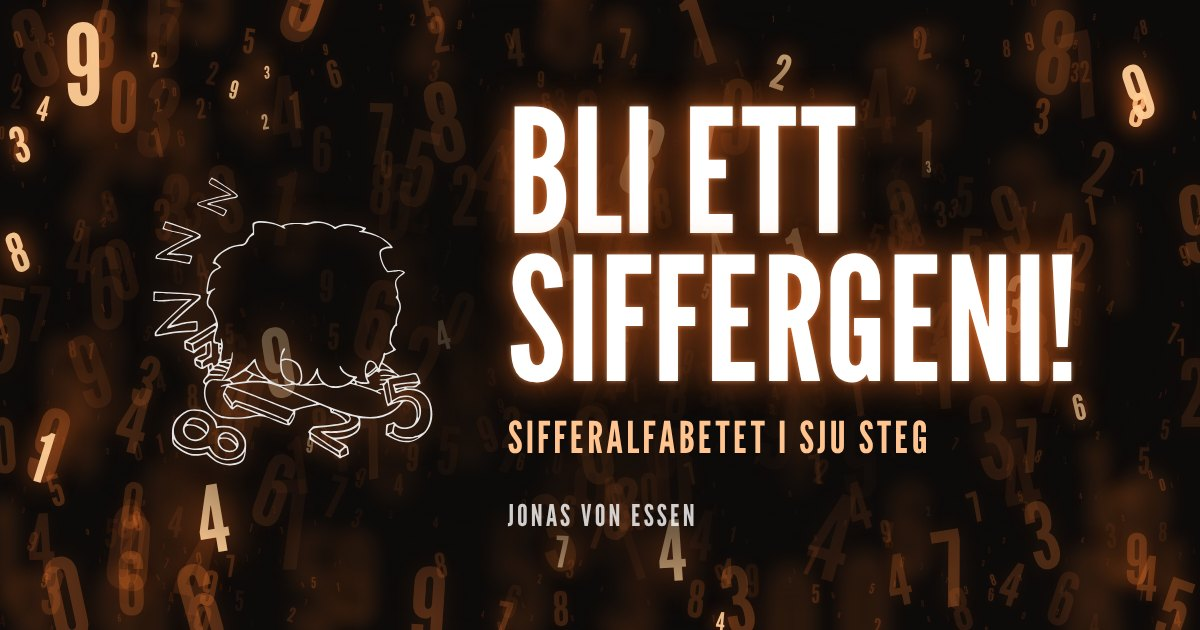
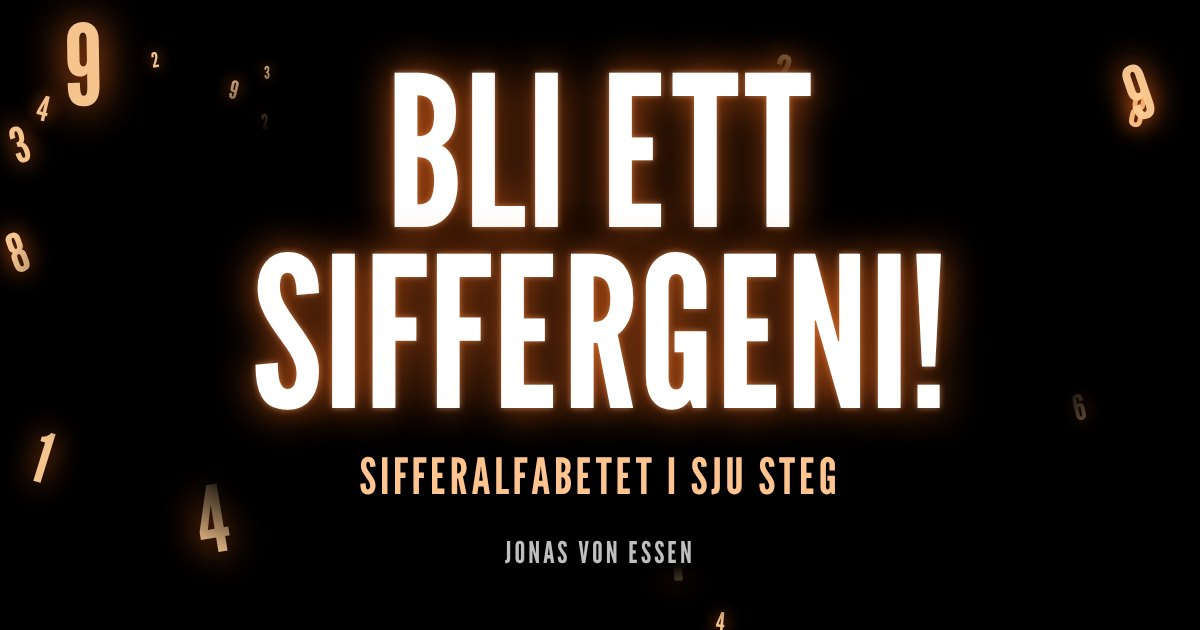
Siffror: svart botten med bara de mest lysande siffrorna, utan teckningar
Jonas ville ta bort teckningarna och göra bakgrunden svart med bara de
mest lysande siffrorna kvar.

- Bakgrunden är svart. Bara de starka siffrorna ritas, på samma platser
  som förut, fördelade på två lager som lyser upp och dämpas om
  vartannat. Rittiden är nu några millisekunder.
- Teckningarna är borta från omslaget, stegen och resultatet (pokalen),
  och SVG-filerna är borttagna. Kartan över minnespalatset är kvar,
  eftersom pi-promenaden och Ditt tal bygger på den.
- Ytan bakom rubriken hålls fri från siffror så att texten syns.
- Delningsbilden är gjord om i samma stil, utan teckning (dela.jpg?v=5).

Claude-Session: https://claude.ai/code/session_01WrBdJdpxhBLU6zPKW1yLaF

diff --git a/siffror.html b/siffror.html
@@ -10,19 +10,18 @@
   <meta property="og:description" content="Lär dig sifferalfabetet och kom ihåg vilka siffror som helst, med Jonas von Essen.">
   <meta property="og:url" content="https://www.jonasgeografi.se/siffror.html">
   <meta property="og:type" content="website">
-  <meta property="og:image" content="https://www.jonasgeografi.se/assets/siffror/dela.jpg?v=4">
+  <meta property="og:image" content="https://www.jonasgeografi.se/assets/siffror/dela.jpg?v=5">
   <meta property="og:image:width" content="1200">
   <meta property="og:image:height" content="630">
   <meta name="twitter:card" content="summary_large_image">
-  <meta name="theme-color" content="#0d0b0a">
+  <meta name="theme-color" content="#000000">
   <link rel="apple-touch-icon" href="assets/design/ikon-180.png">
   <link rel="preload" href="assets/siffror/league-gothic.woff2" as="font" type="font/woff2" crossorigin>
   <style>
     /* Formen kommer från boken Så får du ett superminne: smala versala
-       rubriker och Jonas egna teckningar på en vit sida, som ligger som ett
-       papper på en mörk botten full av lysande siffror.
-       Varje steg har samma upplägg: teckning, rubrik, kort text, övning.
-       League Gothic står in för bokens Kapra. */
+       rubriker på en vit sida, som ligger som ett papper på en svart botten
+       med lysande siffror. Varje steg har samma upplägg: rubrik, kort text,
+       övning. League Gothic står in för bokens Kapra. */
     @font-face {
       font-family: 'League Gothic';
       src: url('assets/siffror/league-gothic.woff2') format('woff2');
@@ -33,17 +32,19 @@
       --brod: 'Helvetica Neue', Helvetica, Arial, sans-serif;
       --svart: #1a1a1a; --text2: #3d3a36; --text3: #716c65; --ljus: #a39d94;
       --prick: #8f8a83; --yta: #f5f2ed;
-      --o1: #f59f4b; --o2: #ee742c; --o3: #e74211; --siffra: #c2410c; --natt: #0d0b0a;
+      --o1: #f59f4b; --o2: #ee742c; --o3: #e74211; --siffra: #c2410c; --natt: #000;
       --ratt: #11865a; --fel: #cc2936;
     }
     * { margin: 0; padding: 0; box-sizing: border-box; }
     html { -webkit-text-size-adjust: 100%; }
     body { font-family: var(--brod); color: var(--svart); line-height: 1.55; min-height: 100vh; background: var(--natt); }
-    /* bakgrunden: siffrorna ritas av siffror-bakgrund.js, de starkaste i ett
-       eget lager som lyser upp och dämpas långsamt */
-    #bakgrund, #glod { position: fixed; top: 0; left: 0; width: 100%; height: 100vh; pointer-events: none; }
-    #bakgrund { z-index: -2; }
-    #glod { z-index: -1; animation: glod 4.5s ease-in-out infinite alternate; }
+    /* bakgrunden: siffror-bakgrund.js ritar de lysande siffrorna i två lager,
+       som lyser upp och dämpas om vartannat */
+    #bakgrund, #glod {
+      position: fixed; top: 0; left: 0; width: 100%; height: 100vh; z-index: -1; pointer-events: none;
+      animation: glod 4.5s ease-in-out infinite alternate;
+    }
+    #glod { animation-delay: -4.5s; }
     @keyframes glod { from { opacity: .35; } to { opacity: 1; } }
     button { font: inherit; color: inherit; cursor: pointer; }
     a { color: inherit; }
@@ -54,10 +55,9 @@
 
     /* ── omslaget ── */
     .hero {
-      display: flex; align-items: center; justify-content: center; gap: 14px; padding: 28px 16px 26px; color: #fff;
-      background: radial-gradient(closest-side, rgba(13, 11, 10, .9), rgba(13, 11, 10, 0));
+      padding: 30px 16px 28px; color: #fff; text-align: center;
+      background: radial-gradient(closest-side, #000 65%, rgba(0, 0, 0, 0));   /* inga siffror bakom rubriken */
     }
-    .hero-bild { width: 92px; flex: none; filter: invert(1) drop-shadow(0 0 6px rgba(255, 120, 40, .7)); }
     h1 {
       font-family: var(--rubrik); font-weight: 400; text-transform: uppercase;
       font-size: clamp(3rem, 15vw, 5.4rem); line-height: .88; letter-spacing: .005em;
@@ -66,7 +66,7 @@
     .hero-under { font-family: var(--rubrik); text-transform: uppercase; font-size: 1.12rem; letter-spacing: .07em; line-height: 1.2; margin-top: 8px; color: #ffc48f; }
 
     /* ── boksidan ── */
-    .sida { background: #fff; max-width: 720px; margin: 0 10px 28px; border-radius: 3px; box-shadow: 0 12px 40px rgba(0, 0, 0, .8), 0 0 60px rgba(255, 110, 30, .12); }
+    .sida { background: #fff; max-width: 720px; margin: 0 10px 28px; border-radius: 3px; box-shadow: 0 0 60px rgba(255, 110, 30, .12); }
     .steg-nav { display: flex; justify-content: center; gap: 7px; padding: 18px 16px 0; }
     .steg-nav a {
       width: 34px; height: 34px; border-radius: 50%; border: 1.5px solid var(--svart);
@@ -79,11 +79,9 @@
     main { max-width: 620px; margin: 0 auto; padding: 0 20px 36px; }
     .vy { animation: in .25s ease-out; }
     @keyframes in { from { opacity: 0; transform: translateY(6px); } }
-    .vy-bild { display: block; width: auto; height: 64px; margin: 28px auto 8px; }
-    .vy-bild.lag { height: 44px; margin-top: 40px; }
     h2 {
       font-family: var(--rubrik); font-weight: 400; text-transform: uppercase; text-align: center;
-      font-size: clamp(2.5rem, 11vw, 3.2rem); line-height: .95; letter-spacing: .005em; margin-bottom: 14px;
+      font-size: clamp(2.5rem, 11vw, 3.2rem); line-height: .95; letter-spacing: .005em; margin: 30px 0 14px;
     }
     h3 {
       font-family: var(--rubrik); font-weight: 400; text-transform: uppercase; letter-spacing: .03em;
@@ -152,7 +150,6 @@
     .aterkoppling.fel { color: var(--fel); }
     .forklaring { color: var(--text2); font-size: .95rem; }
     .forklaring p { margin-top: 6px; }
-    .resultat img { width: 96px; display: block; margin: 4px auto 8px; }
     .resultat .stor { font-size: clamp(2.4rem, 11vw, 3.4rem); text-transform: uppercase; }
 
     .knappsats { display: grid; grid-template-columns: repeat(3, 1fr); gap: 9px; max-width: 330px; margin: 12px auto 4px; }
@@ -251,22 +248,18 @@
     footer p + p { margin-top: 4px; }
 
     @media (max-width: 360px) {
-      .hero-bild { width: 74px; }
       .hero-under { font-size: .98rem; letter-spacing: .05em; }
       .val button { font-size: .98rem; }
     }
     @media (min-width: 600px) {
-      .hero-bild { width: 140px; }
       .steg-nav a { width: 38px; height: 38px; font-size: 1.35rem; }
-      .vy-bild { height: 76px; }
-      .vy-bild.lag { height: 52px; }
       .ovning { padding: 24px 26px; }
       .alfabet { columns: 2; column-gap: 28px; border-top: none; }
       .alfabet li:first-child, .alfabet li:nth-child(6) { border-top: 1.5px dotted var(--prick); }
       .promenad { grid-template-columns: 200px 1fr; gap: 22px; }
     }
     @media (min-width: 760px) {
-      .hero { padding: 40px 16px 34px; }
+      .hero { padding: 44px 16px 38px; }
       .sida { margin: 0 auto 56px; }
     }
     @media (prefers-reduced-motion: reduce) {
@@ -285,11 +278,8 @@
 <canvas id="glod" aria-hidden="true"></canvas>
 
 <header class="hero">
-  <img class="hero-bild" src="assets/siffror/kapitel.svg" alt="" width="555" height="588">
-  <div>
-    <h1>Bli ett siffergeni!</h1>
-    <p class="hero-under">Sifferalfabetet i sju steg</p>
-  </div>
+  <h1>Bli ett siffergeni!</h1>
+  <p class="hero-under">Sifferalfabetet i sju steg</p>
 </header>
 
 <div class="sida">
@@ -308,7 +298,6 @@
 
   <!-- 1. ALFABETET -->
   <section class="vy" id="vy-alfabetet" aria-labelledby="h-alfabetet">
-    <img class="vy-bild" src="assets/siffror/abc.svg" alt="" width="316" height="224">
     <h2 id="h-alfabetet">Sifferalfabetet</h2>
     <p>Siffror är svåra att se framför sig, men ord är lätta. Med sifferalfabetet får varje siffra
       ett konsonantljud. Stoppa in vilka vokaler du vill, så blir talet ett ord.
@@ -327,7 +316,6 @@
 
   <!-- 2. ORD → SIFFROR -->
   <section class="vy" id="vy-ord" aria-labelledby="h-ord" hidden>
-    <img class="vy-bild lag" src="assets/siffror/binar.svg" alt="" width="877" height="173">
     <h2 id="h-ord">Ord till siffror</h2>
     <p>Översätt orden till siffror. Bara konsonantljuden räknas, så ord med många vokaler blir korta tal.</p>
     <div class="ovning" id="ord-ovning"></div>
@@ -340,7 +328,6 @@
 
   <!-- 3. SIFFROR → ORD -->
   <section class="vy" id="vy-tal" aria-labelledby="h-tal" hidden>
-    <img class="vy-bild" src="assets/siffror/lampa.svg" alt="" width="432" height="482">
     <h2 id="h-tal">Siffror till ord</h2>
     <p>Nu åt andra hållet: hitta på ett ord för talet. Det finns inget enda rätt svar.</p>
     <div class="ovning" id="tal-ovning"></div>
@@ -349,7 +336,6 @@
 
   <!-- 4. LATHUNDEN -->
   <section class="vy" id="vy-lathund" aria-labelledby="h-lathund" hidden>
-    <img class="vy-bild" src="assets/siffror/hjarna.svg" alt="" width="383" height="286">
     <h2 id="h-lathund">Lathunden 00–99</h2>
     <p>Den som tävlar har ett färdigt ord för varje tal från 00 till 99, så att bilderna kommer av sig själva.
       Här är mina. Lär in dem tio i taget.</p>
@@ -362,7 +348,6 @@
 
   <!-- 5. ÅRTAL -->
   <section class="vy" id="vy-artal" aria-labelledby="h-artal" hidden>
-    <img class="vy-bild" src="assets/siffror/raket.svg" alt="" width="373" height="174">
     <h2 id="h-artal">Årtal</h2>
     <p>Vet du vilket århundrade något hände räcker det med de två sista siffrorna.
       Läs bilderna, sedan förhör jag dig.</p>
@@ -373,7 +358,6 @@
 
   <!-- 6. PI -->
   <section class="vy" id="vy-pi" aria-labelledby="h-pi" hidden>
-    <img class="vy-bild" src="assets/siffror/pi.svg" alt="" width="768" height="328">
     <h2 id="h-pi">Pi-utmaningen</h2>
     <p>Med lathunden och ett minnespalats lär du dig de 30 första decimalerna av pi på några minuter.
       Varje par blir ett ord, och två ord i taget får en plats i mitt hus från bokens andra kapitel.
@@ -399,7 +383,6 @@
 
   <!-- 7. DITT TAL -->
   <section class="vy ph-no-capture" id="vy-dittal" aria-labelledby="h-dittal" hidden>
-    <img class="vy-bild" src="assets/siffror/utrop.svg" alt="" width="189" height="166">
     <h2 id="h-dittal">Ditt eget tal</h2>
     <p>Telefonnummer, portkoder, födelsedagar: alla tal går att göra om till bilder.
       Skriv ett tal så lägger jag orden i mitt minnespalats. Talet stannar i din webbläsare.</p>
@@ -423,8 +406,8 @@
 
 <script src="siffror-ljud.js?v=1"></script>
 <script src="siffror-data.js?v=3"></script>
-<script src="siffror.js?v=3"></script>
-<script src="siffror-bakgrund.js?v=1"></script>
+<script src="siffror.js?v=4"></script>
+<script src="siffror-bakgrund.js?v=2"></script>
 <script src="kakor.js?v=76"></script>
 </body>
 </html>

diff --git a/siffror.js b/siffror.js
@@ -87,9 +87,8 @@
     return html;
   }
 
-  // resultatet efter en övning: bokens pokal när allt satt
-  const resultatHTML = (rubrik, text, perfekt) => `<div class="resultat">
-    ${perfekt ? '<img src="assets/siffror/pokal.svg" alt="" width="427" height="495">' : ''}
+  // resultatet efter en övning
+  const resultatHTML = (rubrik, text) => `<div class="resultat">
     <div class="stor">${rubrik}</div><p>${text}</p></div>
     <div class="knapprad"><button class="knapp sekundar" type="button" data-igen>Kör igen</button></div>`;
 
@@ -217,7 +216,7 @@
       statistik('alfabet_klart', { sek: tid, missar });
       el.innerHTML = resultatHTML(sekText(tid),
         (missar ? `${missText(missar)} på vägen.` : 'Inte en enda miss!') +
-        (bast ? (rekord ? ' Nytt rekord!' : ` Ditt rekord är ${sekText(bast)}.`) : ''), !missar);
+        (bast ? (rekord ? ' Nytt rekord!' : ` Ditt rekord är ${sekText(bast)}.`) : ''));
       $('[data-igen]', el).addEventListener('click', starta);
       iSikte(el);
     }
@@ -288,7 +287,7 @@
       statistik('ord_klart', { ratt: ratta, antal: ord.length });
       const alla = ratta === ord.length;
       el.innerHTML = resultatHTML(`${ratta} av ${ord.length}`,
-        alla ? 'Alla rätt! Du läser siffror som en minnesatlet.' : 'Bra jobbat! Kör en gång till, så sitter det.', alla);
+        alla ? 'Alla rätt! Du läser siffror som en minnesatlet.' : 'Bra jobbat! Kör en gång till, så sitter det.');
       $('[data-igen]', el).addEventListener('click', () => { starta(); iSikte(el); });
     }
 
@@ -376,8 +375,7 @@
     function klart() {
       statistik('tal_klart', { ratt: ratta, antal: tal.length });
       el.innerHTML = resultatHTML(`${ratta} av ${tal.length}`,
-        'Ju fler ord du hittar på, desto snabbare går det. Proffsen har ett färdigt ord för varje tal, och det är nästa steg!',
-        ratta === tal.length);
+        'Ju fler ord du hittar på, desto snabbare går det. Proffsen har ett färdigt ord för varje tal, och det är nästa steg!');
       $('[data-igen]', el).addEventListener('click', () => { starta(); iSikte(el); });
     }
 
@@ -451,7 +449,7 @@
       lage = 'klar'; aktuell = null;
       statistik('lathund_klart', { tio, missar });
       el.innerHTML = resultatHTML(missar ? 'Klart!' : 'Felfritt!',
-        `${tio}0–${tio}9${missar ? `, med ${missText(missar)} på vägen` : ''}. Repetera i morgon så sitter de ännu bättre.`, !missar);
+        `${tio}0–${tio}9${missar ? `, med ${missText(missar)} på vägen` : ''}. Repetera i morgon så sitter de ännu bättre.`);
       if (tio < 9) {
         $('.knapprad', el).insertAdjacentHTML('beforeend', '<button class="knapp" type="button" data-nasta-tio>Nästa tiotal →</button>');
         $('[data-nasta-tio]', el).addEventListener('click', () => { tio++; lista(); iSikte(el); });
@@ -544,7 +542,7 @@
       statistik('artal_klart', { ratt: ratta, antal: fr.length });
       const alla = ratta === fr.length;
       el.innerHTML = resultatHTML(`${ratta} av ${fr.length}`,
-        alla ? 'Alla rätt! Nu kan du briljera på nästa middag.' : 'Läs igenom bilderna en gång till och kör igen!', alla);
+        alla ? 'Alla rätt! Nu kan du briljera på nästa middag.' : 'Läs igenom bilderna en gång till och kör igen!');
       $('[data-igen]', el).addEventListener('click', starta);
     }
 
@@ -660,7 +658,7 @@
       statistik('pi_klart', { sek, fel });
       forEl.innerHTML = resultatHTML(fel ? sekText(sek) : 'Felfritt!',
         `Du kan de 30 första decimalerna av pi${fel ? `, med ${fel} fel på vägen` : ` på ${sekText(sek)}`}.
-        ${battre && bast ? 'Nytt rekord! ' : ''}Bara 13&nbsp;178 decimaler kvar, så är du ikapp mig …`, !fel);
+        ${battre && bast ? 'Nytt rekord! ' : ''}Bara 13&nbsp;178 decimaler kvar, så är du ikapp mig …`);
       $('[data-igen]', forEl).addEventListener('click', forhorKor);
       iSikte(forEl);
     }

diff --git a/siffror-bakgrund.js b/siffror-bakgrund.js
@@ -1,11 +1,11 @@
-// ── Bakgrunden: tusentals lysande siffror på mörk botten ──
+// ── Bakgrunden: lysande siffror på svart botten ──
 // Ritas en gång på två canvas bakom sidan, och om när fönstret blir större.
-// De starkaste siffrorna ligger i ett eget lager (#glod) som lyser upp och
-// dämpas långsamt med CSS.
+// Siffrorna delas på de två lagren, som lyser upp och dämpas om vartannat
+// med CSS.
 (() => {
   'use strict';
-  const bas = document.getElementById('bakgrund'), glod = document.getElementById('glod');
-  if (!bas || !bas.getContext) return;
+  const lager = [document.getElementById('bakgrund'), document.getElementById('glod')];
+  if (!lager[0] || !lager[1] || !lager[0].getContext) return;
   const FONT = "'League Gothic', 'Arial Narrow', Impact, sans-serif";
   let ritadB = 0, ritadH = 0;
 
@@ -15,48 +15,34 @@
     ritadB = b; ritadH = h;
     // skarpt i mobilen, men högst fyra megapixel per lager
     const dpr = Math.min(devicePixelRatio || 1, 2, Math.sqrt(4e6 / (b * h)));
-    const [x, g] = [bas, glod].map(c => {
+    const k = lager.map(c => {
       c.width = Math.round(b * dpr); c.height = Math.round(h * dpr);
       c.style.width = b + 'px'; c.style.height = h + 'px';
-      const k = c.getContext('2d');
-      k.textAlign = 'center'; k.textBaseline = 'middle';
-      return k;
+      const x = c.getContext('2d');
+      x.textAlign = 'center'; x.textBaseline = 'middle';
+      x.shadowColor = 'rgba(255,110,30,.95)'; x.fillStyle = 'rgba(255,205,150,.95)';
+      return x;
     });
 
-    // samma mönster varje gång: en enkel slumpgenerator med fast frö
+    // samma mönster varje gång: en enkel slumpgenerator med fast frö. Av
+    // siffrorna på ett mellanavstånd får var tolfte lysa, resten ritas inte.
     let fro = 271828;
     const slump = () => (fro = (fro * 16807) % 2147483647) / 2147483647;
     const lista = [];
     for (let n = Math.min(2500, Math.round(b * h / 900)); n > 0; n--) {
-      lista.push({ z: slump(), x: slump() * b, y: slump() * h, rot: (slump() - .5) * .7, l: slump(), s: String(Math.floor(slump() * 10)) });
+      const d = { z: slump(), x: slump() * b, y: slump() * h, rot: (slump() - .5) * .7, l: slump(), s: String(Math.floor(slump() * 10)) };
+      if (d.l < .08 && d.z > .45 && d.z < .9) lista.push(d);
     }
-    // längst bort först: små och svaga siffror långt bort, stora och suddiga nära
+    // längst bort först: de små bakom de stora
     lista.sort((a, c) => a.z - c.z);
     for (const d of lista) {
       const st = 8 + Math.pow(d.z, 4) * 160;
-      const lyser = d.l < .08 && d.z > .45 && d.z < .9;
-      const k = lyser ? g : x;
-      k.save();
-      if (d.z > .92) {
-        // ur fokus: bara skuggan syns, själva siffran hamnar utanför bilden
-        k.setTransform(1, 0, 0, 1, 0, 0);
-        k.font = st * dpr + 'px ' + FONT;
-        k.shadowColor = 'rgba(255,120,40,.2)'; k.shadowBlur = st * .14 * dpr; k.shadowOffsetX = 1e5;
-        k.fillStyle = '#000'; k.fillText(d.s, d.x * dpr - 1e5, d.y * dpr);
-      } else {
-        k.setTransform(dpr, 0, 0, dpr, d.x * dpr, d.y * dpr);
-        k.rotate(d.rot);
-        k.font = st + 'px ' + FONT;
-        if (lyser) {
-          k.shadowColor = 'rgba(255,110,30,.95)'; k.shadowBlur = (8 + st * .3) * dpr;
-          k.fillStyle = 'rgba(255,205,150,.95)';
-        } else {
-          k.shadowColor = 'rgba(255,110,30,.5)'; k.shadowBlur = (2 + st * .2) * dpr;
-          k.fillStyle = 'rgba(255,130,55,' + (.04 + d.l * .26 * (.4 + d.z * .6)).toFixed(3) + ')';
-        }
-        k.fillText(d.s, 0, 0);
-      }
-      k.restore();
+      const x = k[d.l < .04 ? 0 : 1];
+      x.setTransform(dpr, 0, 0, dpr, d.x * dpr, d.y * dpr);
+      x.rotate(d.rot);
+      x.font = st + 'px ' + FONT;
+      x.shadowBlur = (8 + st * .3) * dpr;   // skuggan räknas i bildpunkter
+      x.fillText(d.s, 0, 0);
     }
   }
 

diff --git a/README.md b/README.md
@@ -8,13 +8,11 @@ lucka 12, bygger på kapitel 9 i *Så får du ett superminne*). Den hänger inte
 ihop med spelet: innehållet ligger i `siffror-data.js`, ljudreglerna i
 `siffror-ljud.js` och logiken i `siffror.js`. Kör `node test/siffror.mjs` efter
 att du ändrat ord eller regler — testet kollar att varje ord blir rätt tal.
-Sidan är formgiven som boken och hålls så enkel som möjligt: varje steg har en
-teckning, en rubrik, en kort text och en övning. Boksidan ligger som ett papper
-på en mörk botten med lysande siffror, som `siffror-bakgrund.js` ritar på två
-canvas. Teckningarna i
-`assets/siffror/` är Jonas egna ur boken (linjeteckningarna omritade till SVG),
-och rubrikfonten League Gothic (SIL OFL, licensen ligger bredvid) står in för
-bokens Kapra.
+Sidan hålls så enkel som möjligt: varje steg har en rubrik, en kort text och
+en övning. Boksidan ligger som ett papper på en svart botten med lysande
+siffror, som `siffror-bakgrund.js` ritar på två canvas. Kartan över
+minnespalatset i `assets/siffror/` är Jonas egen ur boken, och rubrikfonten
+League Gothic (SIL OFL, licensen ligger bredvid) står in för bokens Kapra.
 
 ## Hur man spelar (gamla kartsidan)
 
